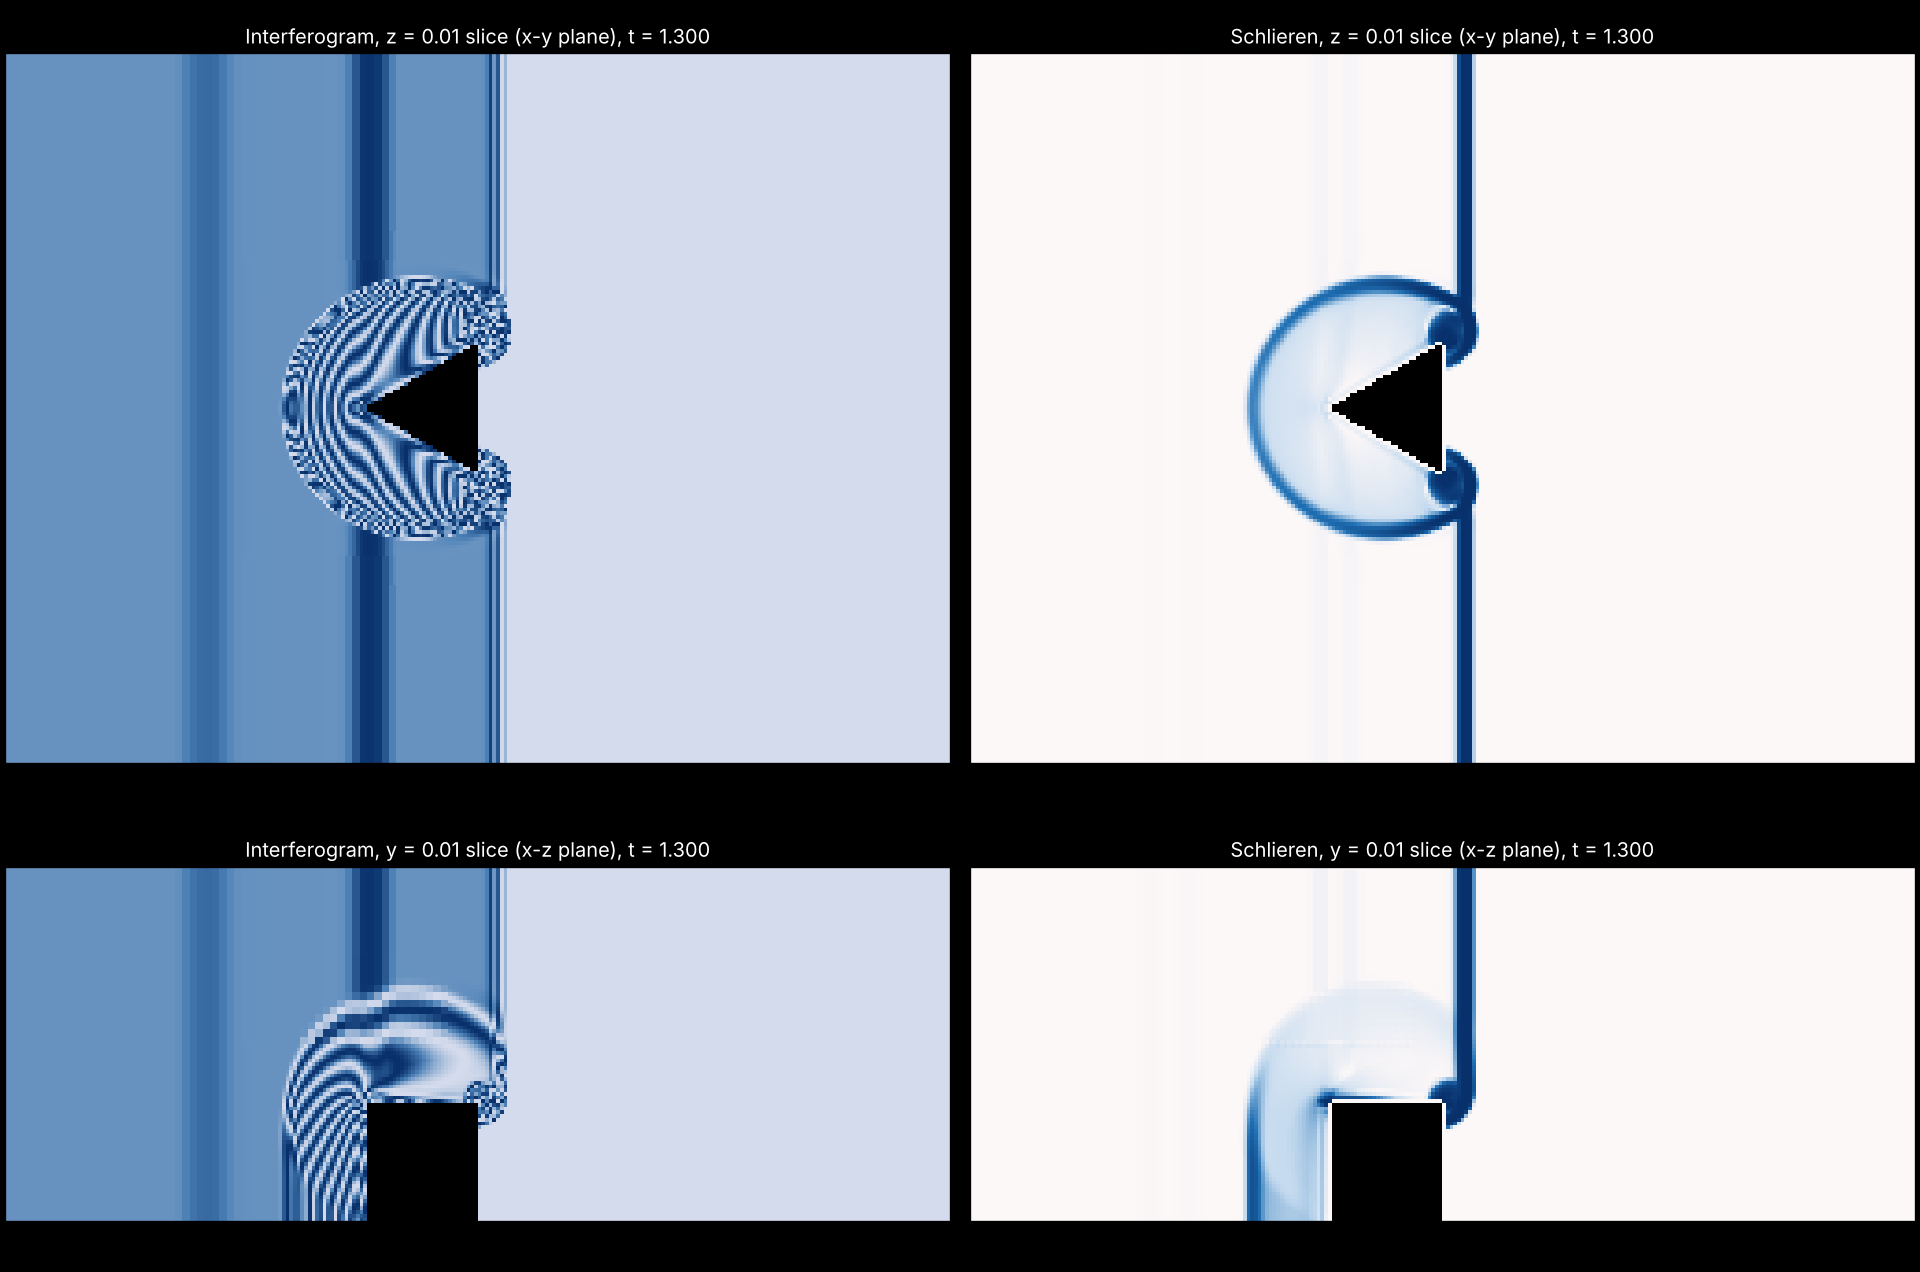
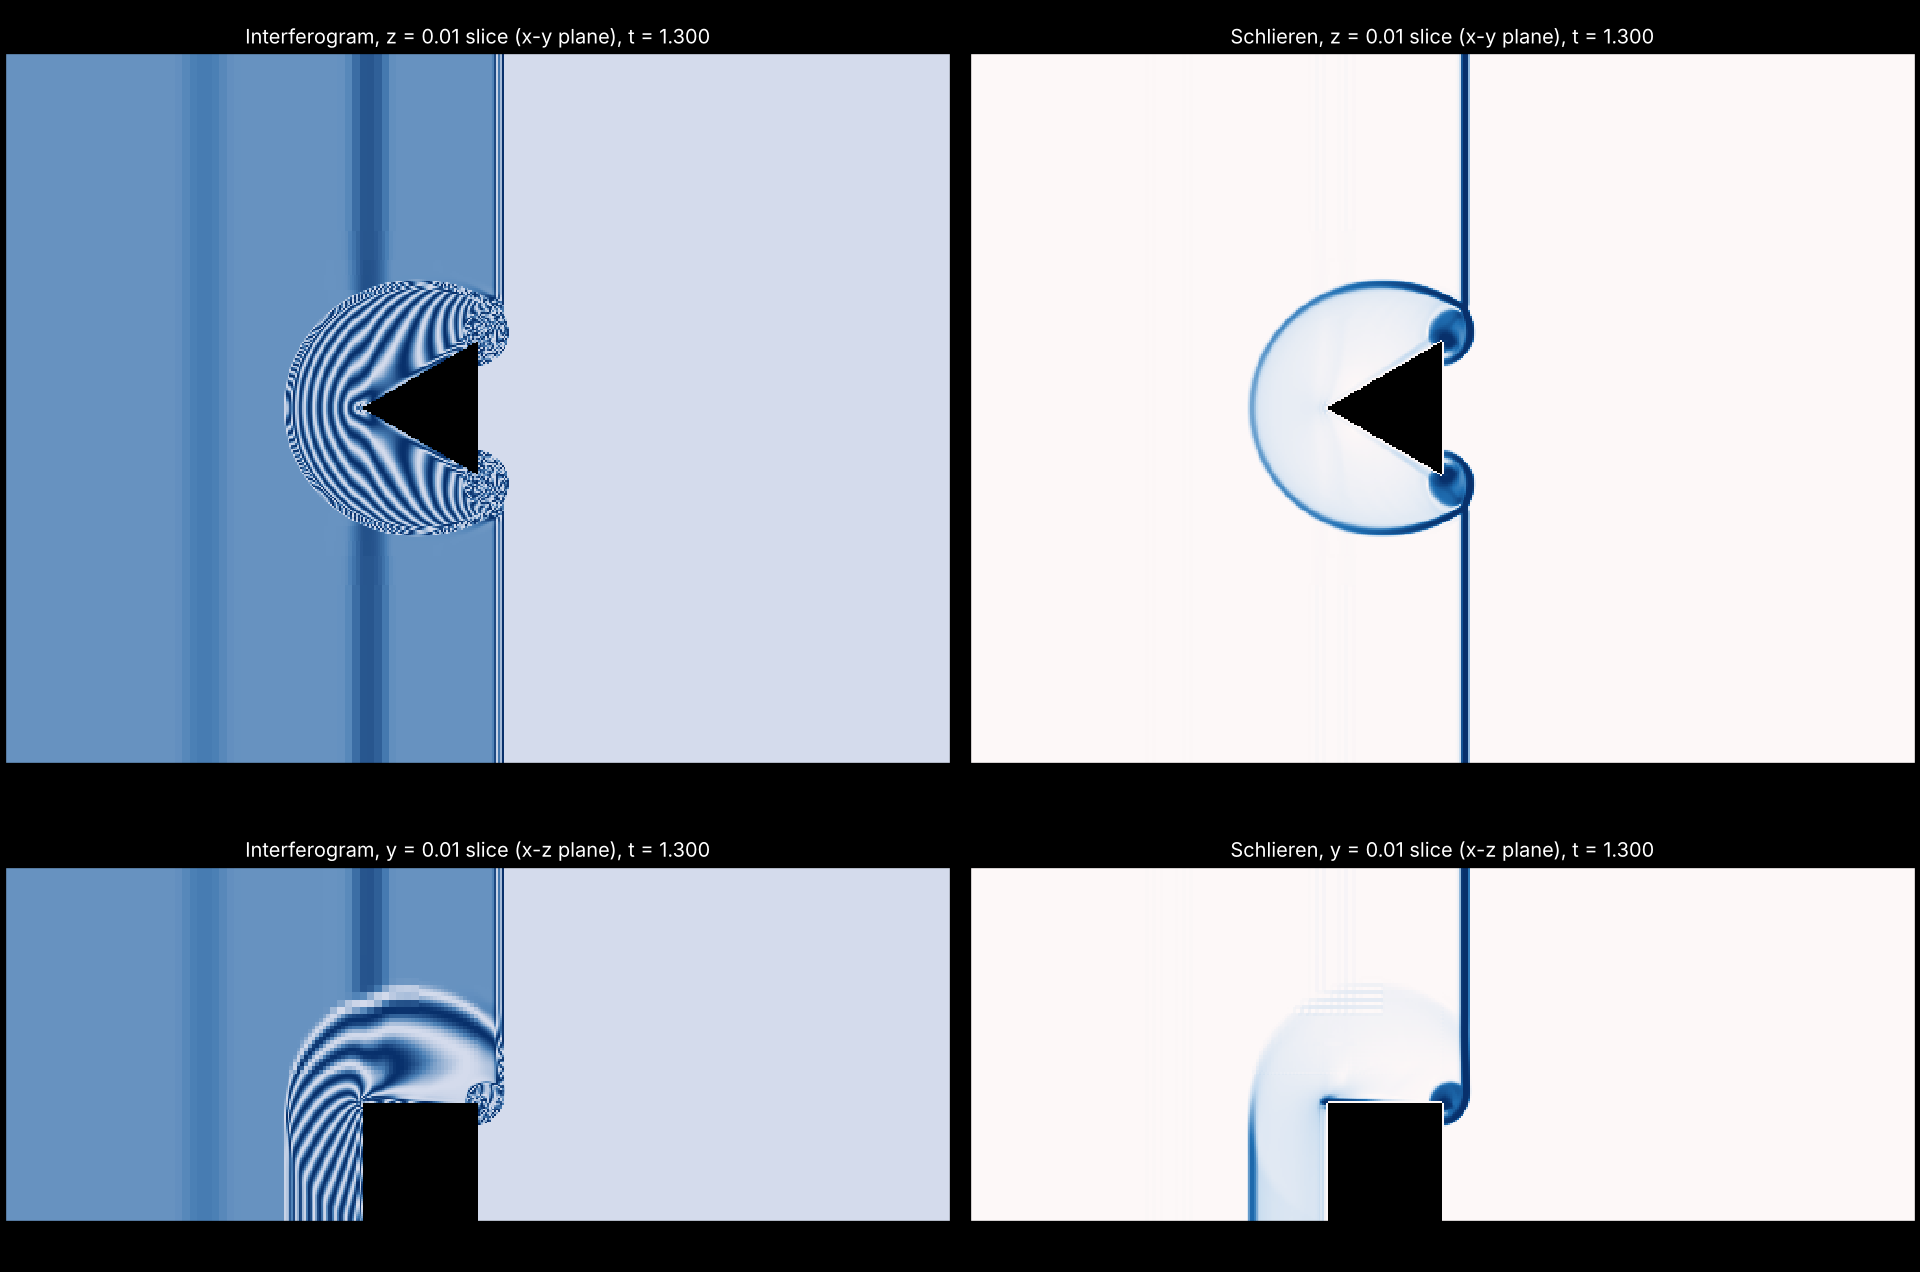
shock_wedge_3d: example image and timing from the full-resolution run
Claude-Session: https://claude.ai/code/session_01VCNowaoWZ5CAyvPuAG2P9E

diff --git a/shock_wedge_3d/README.md b/shock_wedge_3d/README.md
@@ -7,7 +7,7 @@ faces. Half the span is computed, with z = 0 as the mid-span symmetry plane.
 
 ![mid-span and side slices](example_t1.30.png)
 
-Example above: t = 1.3 with `amr.max_level=1` (finest dx = L/32), mid-span slice on top and side slice through the apex below.
+Example above: t = 1.3 with the default inputs (finest dx = L/64), mid-span slice on top and side slice through the apex below.
 
 ## Build, run, plot
 
@@ -23,8 +23,7 @@ python3 ../../shock_wedge_3d/tools/slice_images.py plt00XXX --slice z=0.01 --sli
 ```
 
 Cost on 4 cores: `amr.max_level=1` (finest dx = L/32) takes about 2 min, a good
-first check. The default `max_level=2` (L/64) is roughly 30 s per coarse step on
-4 cores, on the order of an hour to t = 1.3; use more cores or MPI for it.
+first check. The default `max_level=2` (L/64) took 11 min to t = 1.3 (120 coarse steps).
 Plotfiles open in ParaView with the AMReX/BoxLib Grid Reader for 3D views
 (contour of density, or a slice coloured by |grad rho|).
 
